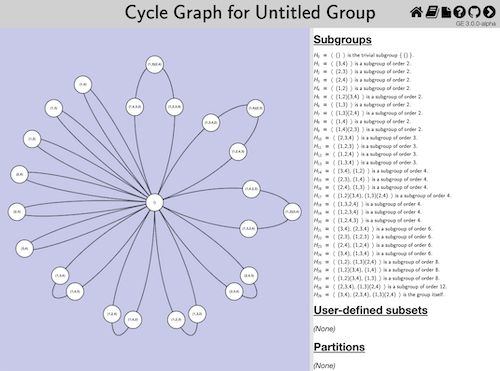
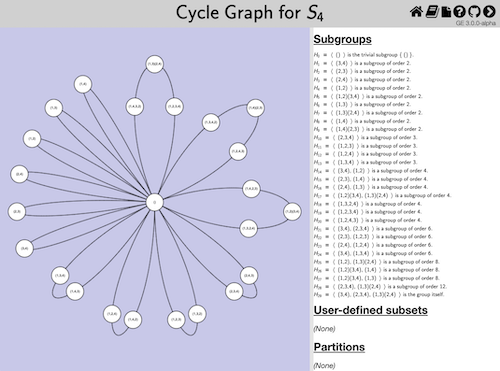
Adding support for group names

diff --git a/viz-tool-group-explorer.js b/viz-tool-group-explorer.js
@@ -117,6 +117,13 @@ function ( element, json, callback ) {
                     return `<mtext>${eltRepr}</mtext>`;
                 }
             } ) );
+    // Similar processing for group name:
+    if ( copy.hasOwnProperty( 'name' ) )
+        try {
+            $.parseXML( copy.name );
+        } catch ( err ) {
+            copy.name = `<mrow><mtext>${copy.name}</mtext></mrow>`;
+        }
     // Send a message to the iframe, once it's loaded, about the group that
     // should be displayed.  Call the callback.
     iframe.addEventListener( 'load', function ( event ) {

diff --git a/README.md b/README.md
@@ -43,10 +43,14 @@ ExploreMultiplicationTable( Group( [ (1,2,3,4,5) ] ), rec(
 
 Visualize a symmetric group using a cycle graph and its
 standard permutation notation as its representation.
+In this example, we give the group a name, which is used in
+the page heading.  We can use MathML formatting, but doing
+so is optiona; plain text is also accepted.
 
 ```gap
 ExploreCycleGraph( Group( [ (1,2,3,4), (1,2) ] ), rec(
-    representations := PrintString
+    representations := PrintString,
+    name := "<msub><mi>S</mi><mn>4</mn></msub>"
 ) );
 ```
 

diff --git a/to-do-list.md b/to-do-list.md
@@ -1,10 +1,6 @@
 
 # To-do list
 
-## Preparation for first release
-
- * Add support for group names.
-
 ## First release
 
 Note that if things are going quickly/smoothly, you might consider doing
